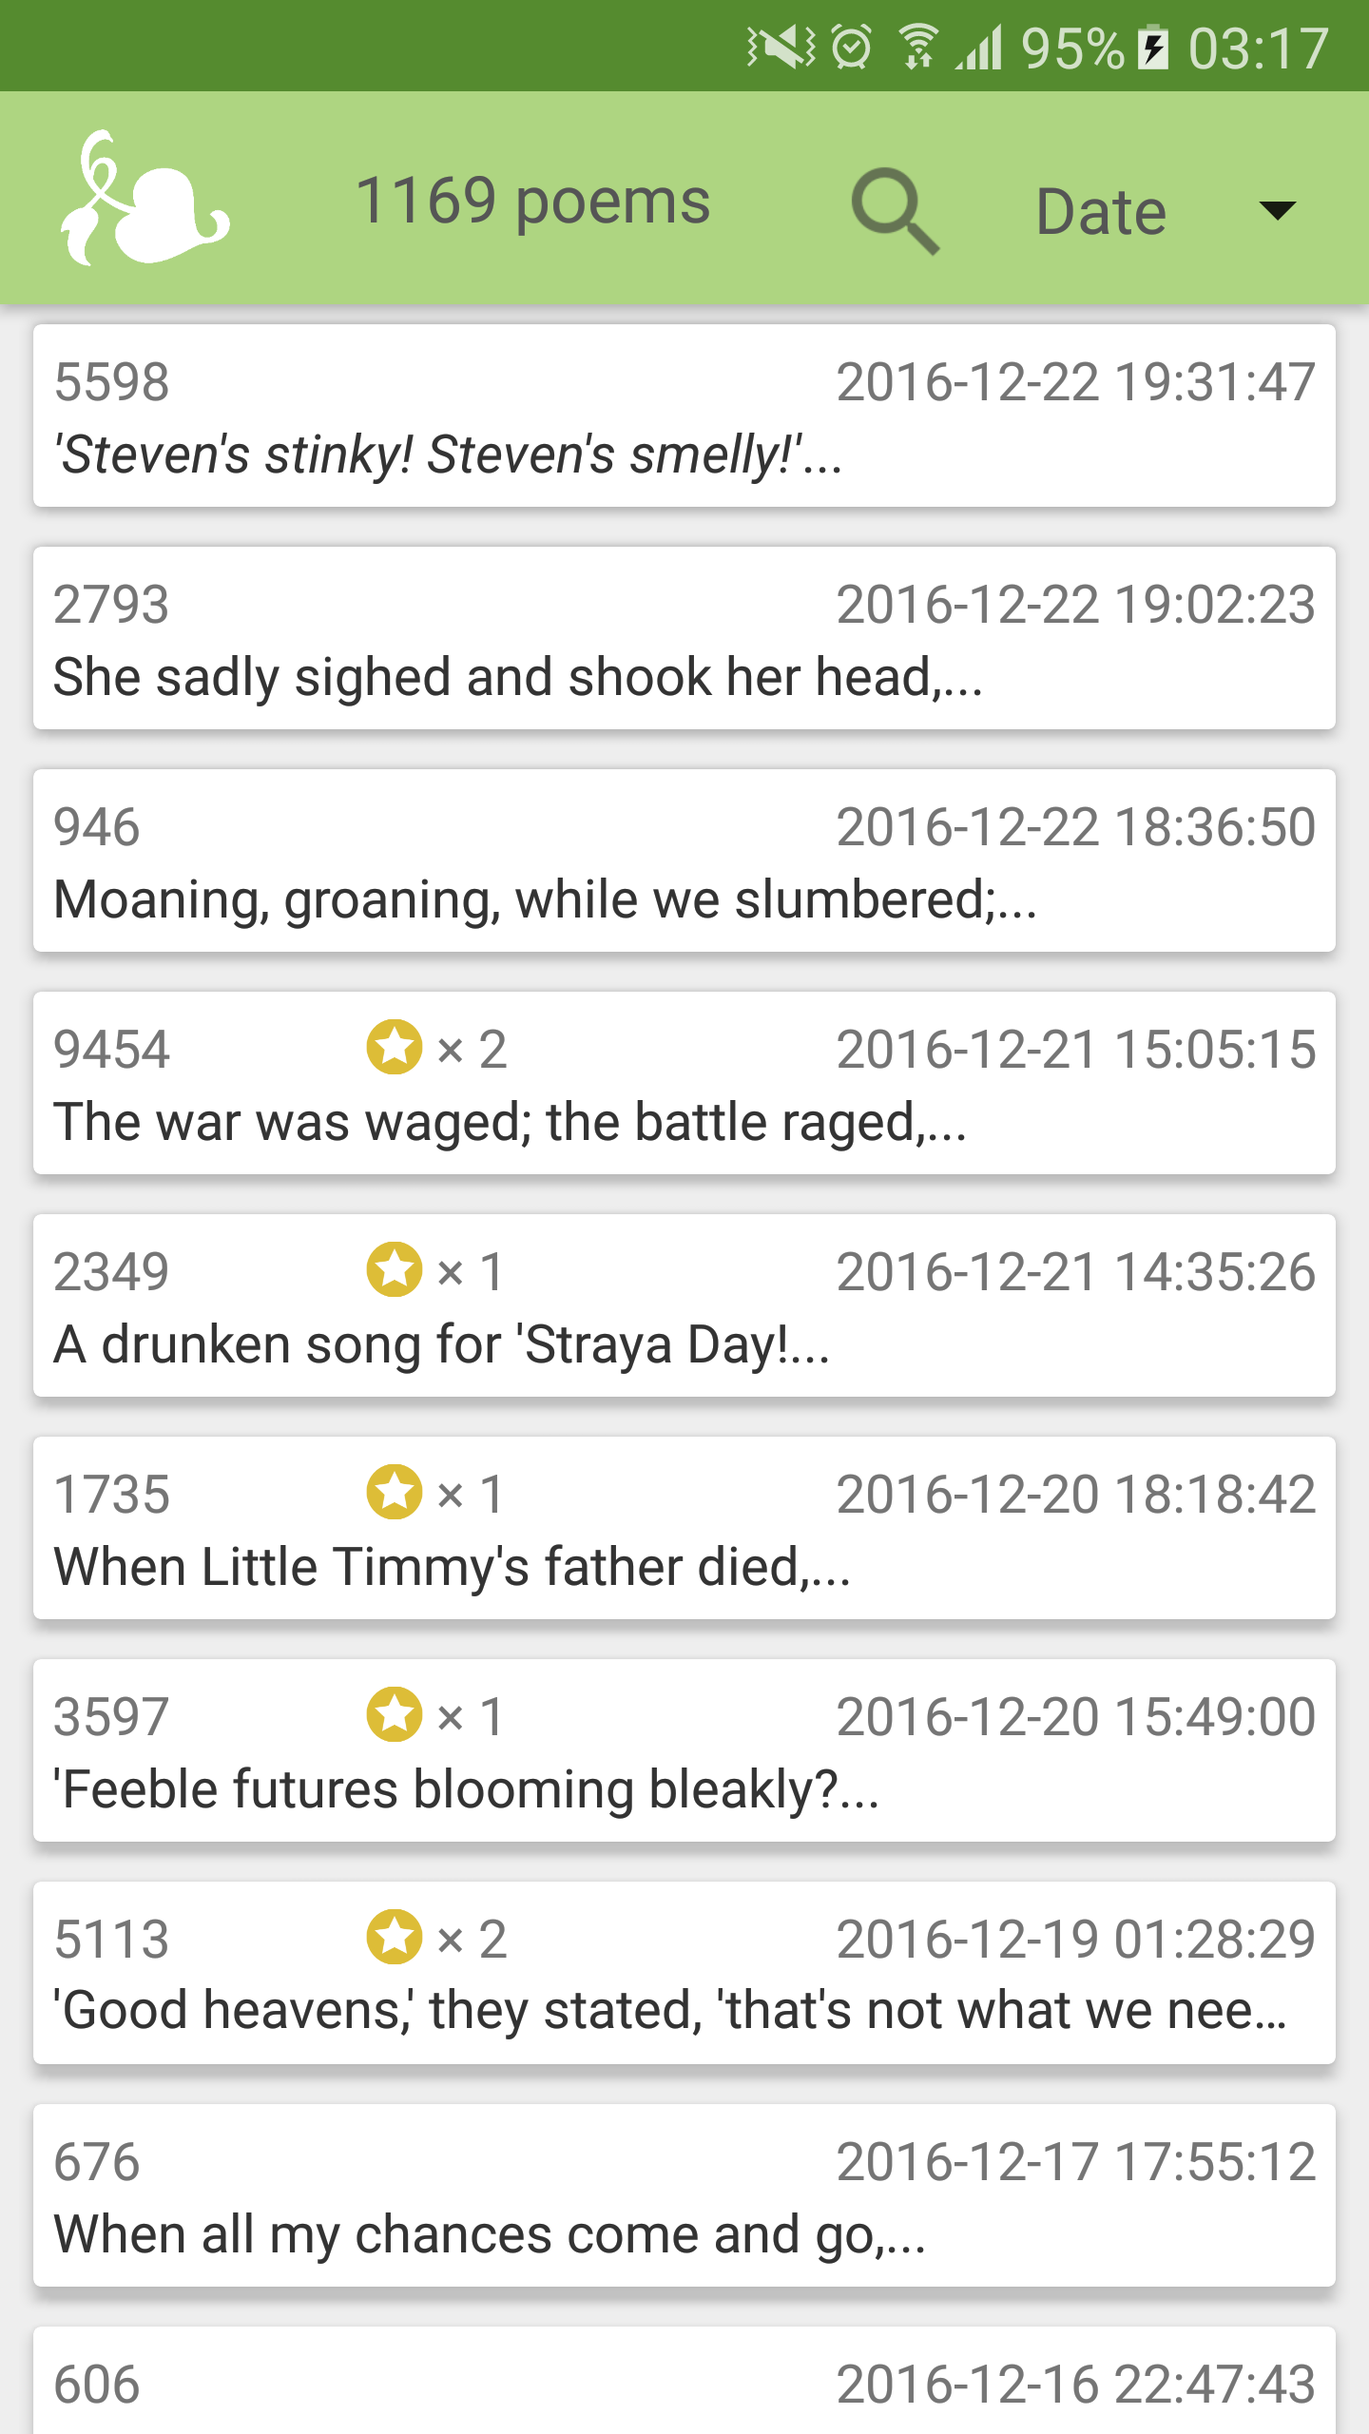
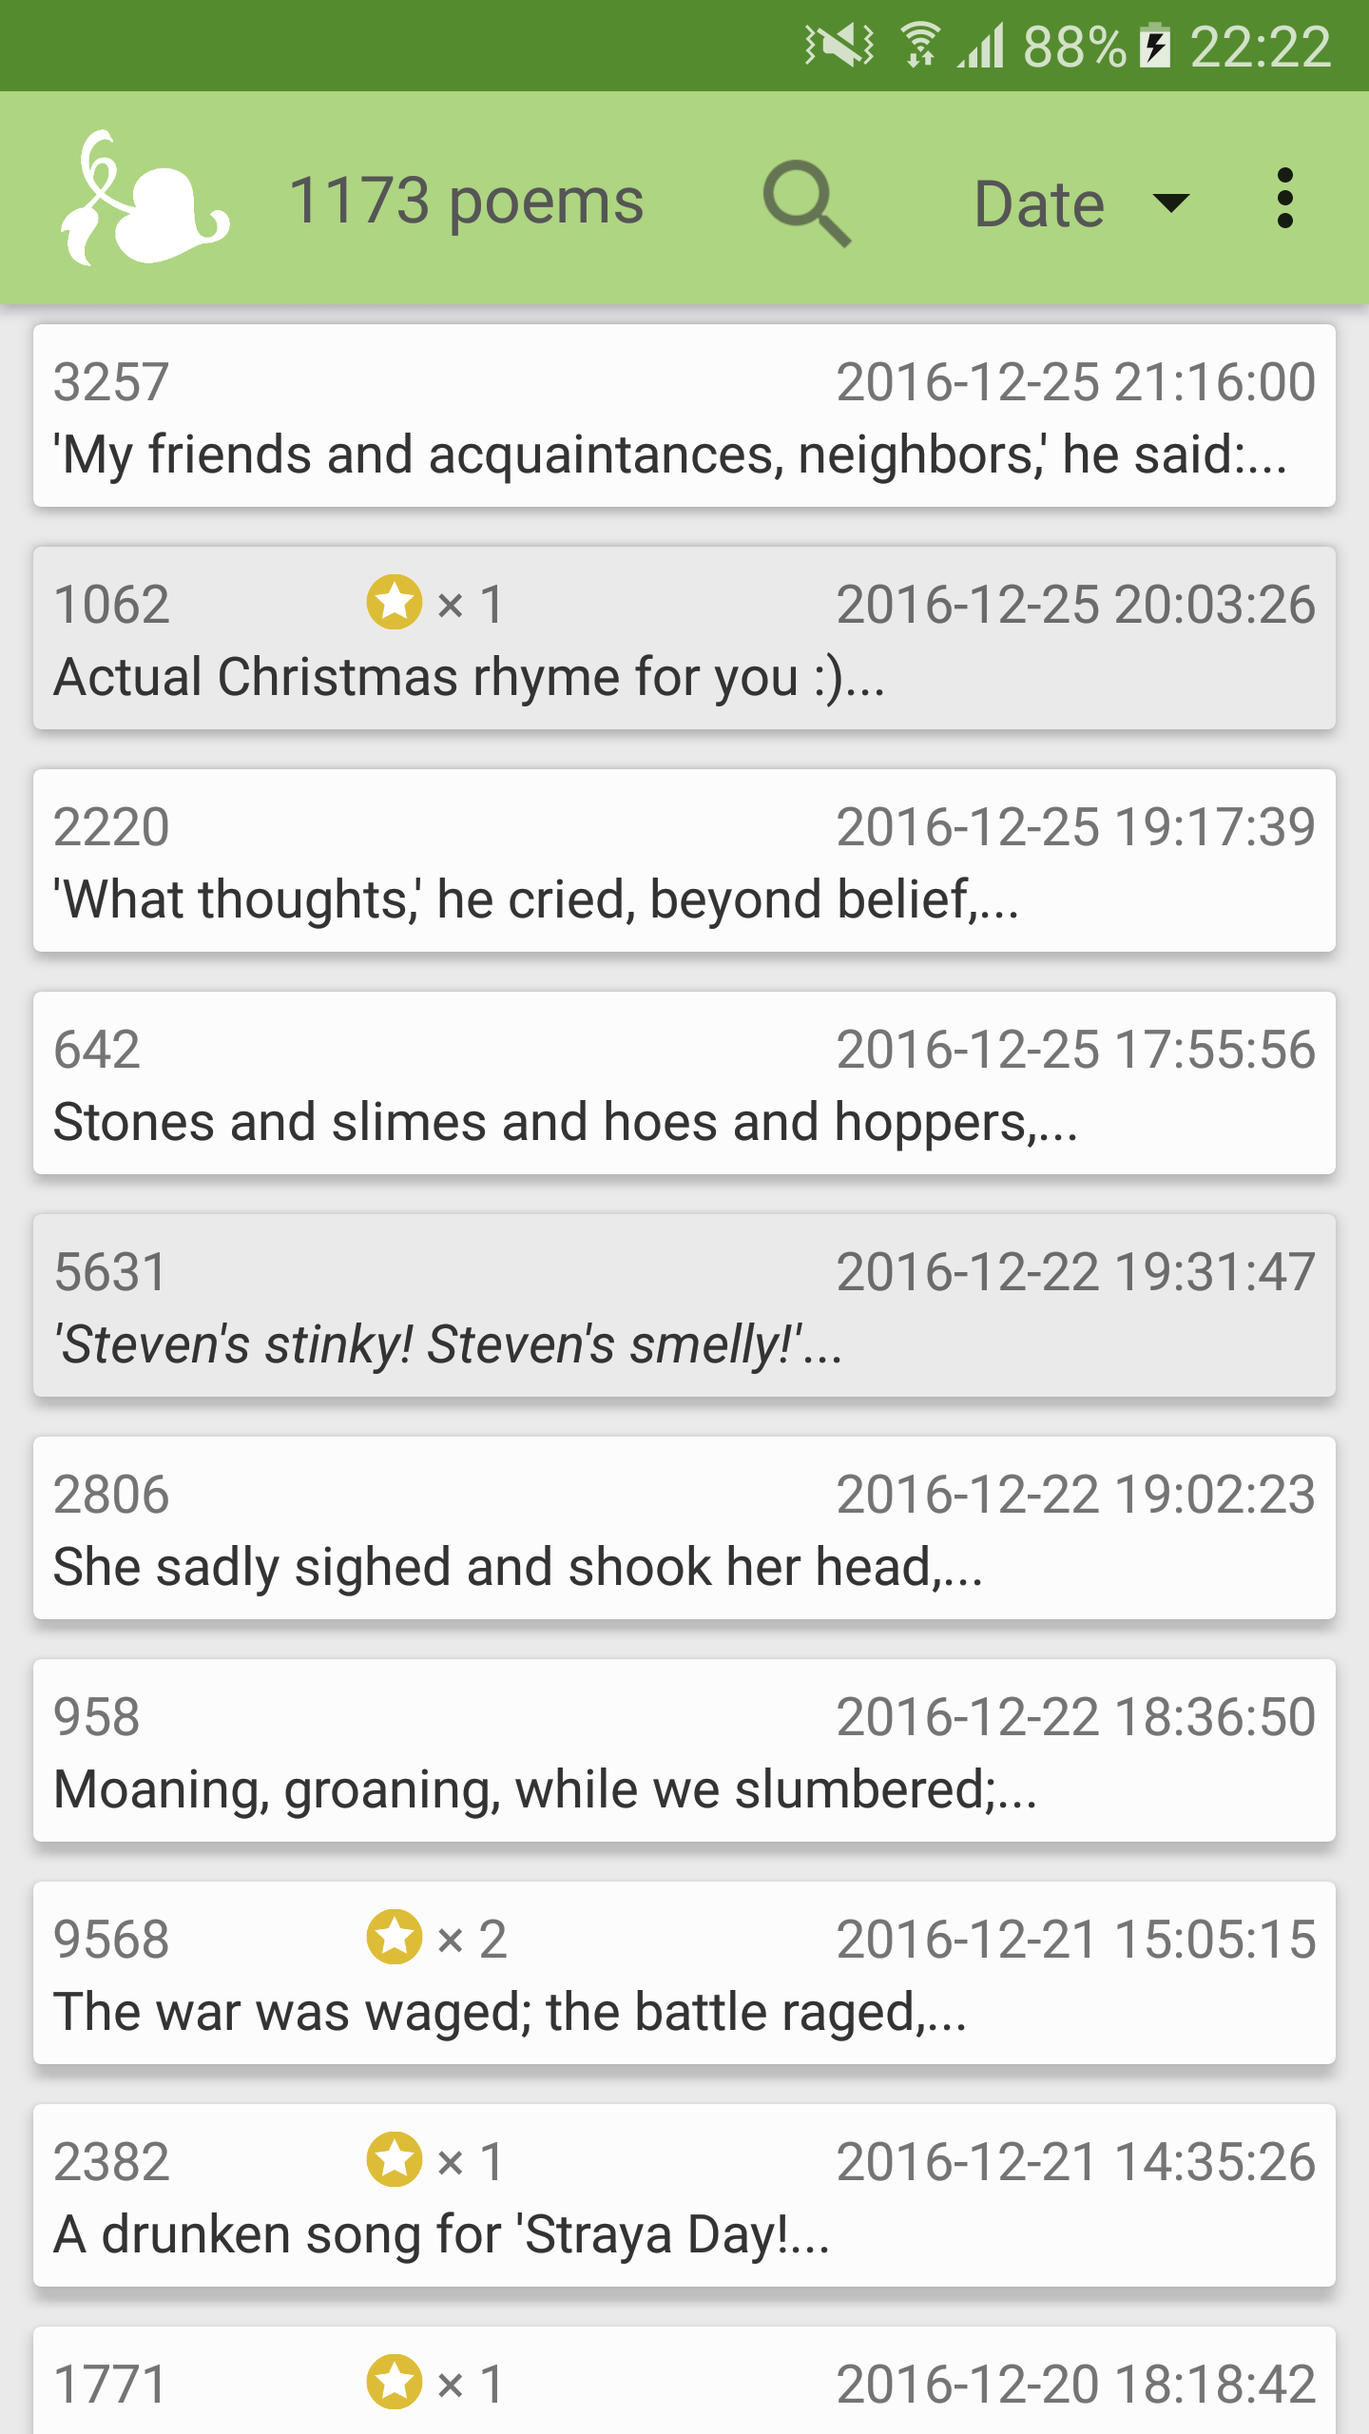
added graying out of read poems, updated screenshots to match

diff --git a/app/src/main/java/com/almoturg/sprog/MainActivity.java b/app/src/main/java/com/almoturg/sprog/MainActivity.java
@@ -8,7 +8,7 @@ import android.content.SharedPreferences;
 import android.graphics.Color;
 import android.net.Uri;
 import android.os.Environment;
-import android.support.v7.app.AppCompatActivity;
+import android.support.v7.app.ActionBarActivity;
 import android.os.Bundle;
 import android.content.Intent;
 import android.support.v7.widget.LinearLayoutManager;
@@ -16,6 +16,8 @@ import android.support.v7.widget.RecyclerView;
 import android.support.v7.widget.Toolbar;
 import android.text.Editable;
 import android.text.TextWatcher;
+import android.view.Menu;
+import android.view.MenuItem;
 import android.view.View;
 import android.view.inputmethod.InputMethodManager;
 import android.widget.AdapterView;
@@ -40,7 +42,7 @@ import static com.almoturg.sprog.SprogApplication.filtered_poems;
 import static com.almoturg.sprog.SprogApplication.poems;
 
 
-public class MainActivity extends AppCompatActivity {
+public class MainActivity extends ActionBarActivity {
     public static final String TAG = "Sprog";
     private RecyclerView mRecyclerView;
     private RecyclerView.Adapter mAdapter;
@@ -50,6 +52,8 @@ public class MainActivity extends AppCompatActivity {
     private Tracker mTracker;
     private boolean updating = false; // after processing set last update time if this is true
     private boolean processing = false;
+    SharedPreferences prefs;
+    ArrayList<String> new_read_poems; // Poems newly marked as read
 
     @Override
     protected void onCreate(Bundle savedInstanceState) {
@@ -112,6 +116,10 @@ public class MainActivity extends AppCompatActivity {
 
         // use a linear layout manager
         mRecyclerView.setLayoutManager(new LinearLayoutManager(this));
+
+        prefs = getPreferences(MODE_PRIVATE);
+
+        new_read_poems = new ArrayList<>();
     }
 
     @Override
@@ -133,8 +141,14 @@ public class MainActivity extends AppCompatActivity {
         preparePoems();
     }
 
+    @Override
+    protected void onPause() {
+        super.onPause();
+        SprogApplication.getDbHelper(this).addReadPoems(new_read_poems);
+        new_read_poems.clear();
+    }
+
     private void preparePoems() { // not sure about the name...
-        SharedPreferences prefs = getPreferences(MODE_PRIVATE);
         long last_update_tstamp = prefs.getLong("LAST_UPDATE_TIME", -1);
         boolean internet_access = Util.isConnected(this);
 
@@ -207,7 +221,6 @@ public class MainActivity extends AppCompatActivity {
         if (updating) {
             updating = false;
             if (poems.size() > 1000) {
-                SharedPreferences prefs = getPreferences(MODE_PRIVATE);
                 SharedPreferences.Editor editor = prefs.edit();
 
                 Calendar now = Calendar.getInstance(TimeZone.getTimeZone("UTC"));
@@ -271,7 +284,7 @@ public class MainActivity extends AppCompatActivity {
             search_box.setText("");
             findViewById(R.id.toggle_search).setBackgroundColor(Color.TRANSPARENT);
             ((InputMethodManager) getSystemService(INPUT_METHOD_SERVICE))
-                    .hideSoftInputFromWindow(search_box.getWindowToken(),0);
+                    .hideSoftInputFromWindow(search_box.getWindowToken(), 0);
             searchPoems();
         }
     }
@@ -291,5 +304,42 @@ public class MainActivity extends AppCompatActivity {
         }
         statusView.setText(filtered_poems.size() + " poems");
         mAdapter.notifyDataSetChanged();
+    }
+
+    @Override
+    public boolean onCreateOptionsMenu(Menu menu) {
+        // Inflate the menu; this adds items to the action bar if it is present.
+        getMenuInflater().inflate(R.menu.main_toolbar, menu);
+        menu.findItem(R.id.action_mark_read).setChecked(prefs.getBoolean("MARK_READ_ENABLED", true));
+        return true;
+    }
+
+    @Override
+    public boolean onOptionsItemSelected(MenuItem item) {
+        // Handle action bar item clicks here. The action bar will
+        // automatically handle clicks on the Home/Up button, so long
+        // as you specify a parent activity in AndroidManifest.xml.
+        int id = item.getItemId();
+
+/*        if (id == R.id.action_force_refresh) {
+            updatePoems(null);
+            return true;
+        } else */
+        if (id == R.id.action_mark_read) {
+            item.setChecked(! item.isChecked());
+            SharedPreferences.Editor editor = prefs.edit();
+            editor.putBoolean("MARK_READ_ENABLED", item.isChecked());
+            editor.apply();
+            mAdapter.notifyDataSetChanged();
+        } else if (id == R.id.action_reset_read) {
+            new_read_poems.clear();
+            SprogApplication.getDbHelper(this).clearReadPoems();
+            for (Poem p : poems){
+                p.read = false;
+            }
+            mAdapter.notifyDataSetChanged();
+        }
+
+        return super.onOptionsItemSelected(item);
     }
 }

diff --git a/app/src/main/java/com/almoturg/sprog/SprogDbHelper.java b/app/src/main/java/com/almoturg/sprog/SprogDbHelper.java
@@ -1,0 +1,77 @@
+package com.almoturg.sprog;
+
+import android.content.ContentValues;
+import android.content.Context;
+import android.database.Cursor;
+import android.database.sqlite.SQLiteDatabase;
+import android.database.sqlite.SQLiteOpenHelper;
+import android.util.Log;
+
+import java.util.ArrayList;
+
+class SprogDbHelper extends SQLiteOpenHelper{
+    // If you change the database schema, you must increment the database version.
+    private static final int DATABASE_VERSION = 1;
+    private static final String DATABASE_NAME = "Sprog.db";
+    private static final String READ_TABLE = "read_poems";
+
+    private static final String SQL_CREATE_ENTRIES =
+            "CREATE TABLE " + READ_TABLE + " (link TEXT PRIMARY KEY NOT NULL ON CONFLICT IGNORE)";
+
+    private static final String SQL_DELETE_ENTRIES =
+            "DROP TABLE IF EXISTS " + READ_TABLE;
+
+    private static final String SQL_CLEAR_READ_POEMS =
+            "DELETE FROM " + READ_TABLE;
+
+    public SprogDbHelper(Context context) {
+        super(context, DATABASE_NAME, null, DATABASE_VERSION);
+    }
+
+    public void onCreate(SQLiteDatabase db) {
+        db.execSQL(SQL_CREATE_ENTRIES);
+    }
+    public void onUpgrade(SQLiteDatabase db, int oldVersion, int newVersion) {
+        // This database is only a cache for online data, so its upgrade policy is
+        // to simply to discard the data and start over
+        db.execSQL(SQL_DELETE_ENTRIES);
+        onCreate(db);
+    }
+    public void onDowngrade(SQLiteDatabase db, int oldVersion, int newVersion) {
+        onUpgrade(db, oldVersion, newVersion);
+    }
+
+    ArrayList<String> getReadPoems(){
+        SQLiteDatabase db = this.getReadableDatabase();
+        Cursor cur = db.rawQuery("SELECT link from " + READ_TABLE, null);
+        ArrayList<String> read_poems = new ArrayList<>();
+        while (cur.moveToNext()) {
+            String link = cur.getString(cur.getColumnIndexOrThrow("link"));
+            read_poems.add(link);
+        }
+        cur.close();
+        db.close();
+        return read_poems;
+    }
+
+    void addReadPoems(ArrayList<String> new_read_poems){
+        SQLiteDatabase db = this.getWritableDatabase();
+        db.beginTransaction();
+
+        ContentValues values;
+        for (String link : new_read_poems){
+            values = new ContentValues();
+            values.put("link", link);
+            db.insert(READ_TABLE, null, values);
+        }
+
+        db.setTransactionSuccessful();
+        db.endTransaction();
+        db.close();
+    }
+
+    void clearReadPoems(){
+        SQLiteDatabase db = this.getWritableDatabase();
+        db.execSQL(SQL_CLEAR_READ_POEMS);
+    }
+}

diff --git a/app/src/main/java/com/almoturg/sprog/Util.java b/app/src/main/java/com/almoturg/sprog/Util.java
@@ -1,12 +1,17 @@
 package com.almoturg.sprog;
 
 import android.content.Context;
+import android.database.Cursor;
+import android.database.sqlite.SQLiteDatabase;
 import android.net.ConnectivityManager;
 import android.net.NetworkInfo;
+import android.support.v4.content.res.ResourcesCompat;
+import android.support.v7.widget.CardView;
 import android.text.format.DateFormat;
 import android.view.View;
 import android.widget.TextView;
 
+import java.util.ArrayList;
 import java.util.Calendar;
 import java.util.Locale;
 import java.util.TimeZone;
@@ -22,7 +27,7 @@ final class Util {
     private static Bypass bypass;
 
     static void update_poem_row(Poem poem, View poem_row, boolean border,
-                                       boolean only_first_line, Context context) {
+                                       boolean main_list, Context context) {
         if (cal == null) {
             cal = Calendar.getInstance(Locale.ENGLISH);
         }
@@ -34,10 +39,16 @@ final class Util {
             poem_row.findViewById(R.id.container).setPadding(card_padding, card_padding, card_padding, card_padding);
         }
 
-        if (only_first_line) {
+        if (main_list) {
             poem_row.findViewById(R.id.first_line).setVisibility(View.VISIBLE);
             poem_row.findViewById(R.id.content_wrapper).setVisibility(View.GONE);
             ((TextView) poem_row.findViewById(R.id.first_line)).setText(poem.first_line);
+            if (poem.read && ((MainActivity) context).prefs.getBoolean("MARK_READ_ENABLED", true)) {
+                ((CardView) poem_row).setCardBackgroundColor(ResourcesCompat.getColor(context.getResources(), R.color.colorReadPoem, null));
+            } else {
+                ((CardView) poem_row).setCardBackgroundColor(ResourcesCompat.getColor(context.getResources(), R.color.colorUnReadPoem, null));
+            }
+
         } else {
             poem_row.findViewById(R.id.first_line).setVisibility(View.GONE);
             poem_row.findViewById(R.id.content_wrapper).setVisibility(View.VISIBLE);

diff --git a/app/src/main/java/com/almoturg/sprog/PoemParser.java b/app/src/main/java/com/almoturg/sprog/PoemParser.java
@@ -3,6 +3,7 @@ package com.almoturg.sprog;
 import android.content.Context;
 import android.util.JsonReader;
 import android.util.JsonToken;
+import android.util.Log;
 
 import java.io.IOException;
 import java.io.InputStream;
@@ -18,12 +19,14 @@ class PoemParser {
     private JsonReader reader;
     private HashMap<String, Poem> mainpoem_links;
     private Bypass bypass;
+    private ArrayList<String> read_poems;
 
     PoemParser(InputStream in, Context context) throws IOException {
         synchronized (SprogApplication.bypassLock){
             bypass = new Bypass(context, new Bypass.Options());
         }
-        this.reader = new JsonReader(new InputStreamReader(in, "UTF-8"));
+        read_poems = SprogApplication.getDbHelper(context).getReadPoems();
+        reader = new JsonReader(new InputStreamReader(in, "UTF-8"));
         mainpoem_links = new HashMap<>();
         reader.beginArray();
     }
@@ -55,6 +58,7 @@ class PoemParser {
         List<ParentComment> parents = null;
         String link = null;
         Poem main_poem = null;
+        boolean read = false;
 
         reader.beginObject();
         while (reader.hasNext()) {
@@ -102,9 +106,14 @@ class PoemParser {
             first_line = bypass.markdownToSpannable(content.trim().split("\n", 2)[0].trim() + "...");
         }
 
+        if (read_poems.contains(link)){
+            read = true;
+        }
+
         Poem poem = new Poem(gold, score, content, first_line, timestamp,
                 post_title, post_author, post_content,
-                parents, link, main_poem);
+                parents, link, main_poem, read);
+
         if (main_poem == null) {
             // add parent comments of this poem which are poems to mainpoem_links
             for (ParentComment p : poem.parents) {

diff --git a/app/src/main/java/com/almoturg/sprog/SprogApplication.java b/app/src/main/java/com/almoturg/sprog/SprogApplication.java
@@ -18,6 +18,7 @@ package com.almoturg.sprog;
 
 
 import android.app.Application;
+import android.content.Context;
 
 import com.google.android.gms.analytics.GoogleAnalytics;
 import com.google.android.gms.analytics.Tracker;
@@ -34,6 +35,7 @@ public class SprogApplication extends Application {
     public static List<Poem> poems = new ArrayList<>();
     public static List<Poem> filtered_poems = new ArrayList<>();
     public static final Object bypassLock = new Object();
+    private static SprogDbHelper sprogDbHelper;
 
     /**
      * Gets the default {@link Tracker} for this {@link Application}.
@@ -48,5 +50,10 @@ public class SprogApplication extends Application {
         return mTracker;
     }
 
-
+    synchronized public static SprogDbHelper getDbHelper(Context context){
+        if (sprogDbHelper == null) {
+            sprogDbHelper = new SprogDbHelper(context);
+        }
+        return sprogDbHelper;
+    }
 }

diff --git a/app/src/main/java/com/almoturg/sprog/Poem.java b/app/src/main/java/com/almoturg/sprog/Poem.java
@@ -15,10 +15,11 @@ class Poem {
     List<ParentComment> parents;
     String link;
     Poem main_poem;
+    boolean read;
 
     Poem(int gold, int score, String content, CharSequence first_line, double timestamp,
                 String post_title, String post_author, String post_content,
-                List<ParentComment> parents, String link, Poem main_poem) {
+                List<ParentComment> parents, String link, Poem main_poem, boolean is_read) {
         this.content = content;
         this.gold = gold;
         this.score = score;
@@ -31,5 +32,6 @@ class Poem {
         this.main_poem = main_poem;
 
         this.first_line = first_line;
+        this.read = is_read;
     }
 }

diff --git a/app/src/main/java/com/almoturg/sprog/PoemsListAdapter.java b/app/src/main/java/com/almoturg/sprog/PoemsListAdapter.java
@@ -46,6 +46,10 @@ class PoemsListAdapter extends RecyclerView.Adapter<PoemsListAdapter.ViewHolder>
         @Override
         public void onClick(View v) {
             if (content_wrapper.getVisibility() == View.GONE) {
+                if (! poem.read){
+                    poem.read = true;
+                    ((MainActivity) context).new_read_poems.add(poem.link);
+                }
                 first_line.setVisibility(View.GONE);
                 content_wrapper.setVisibility(View.VISIBLE);
                 ((TextView) v.findViewById(R.id.content)).setText(Util.convertMarkdown(poem.content, context));
